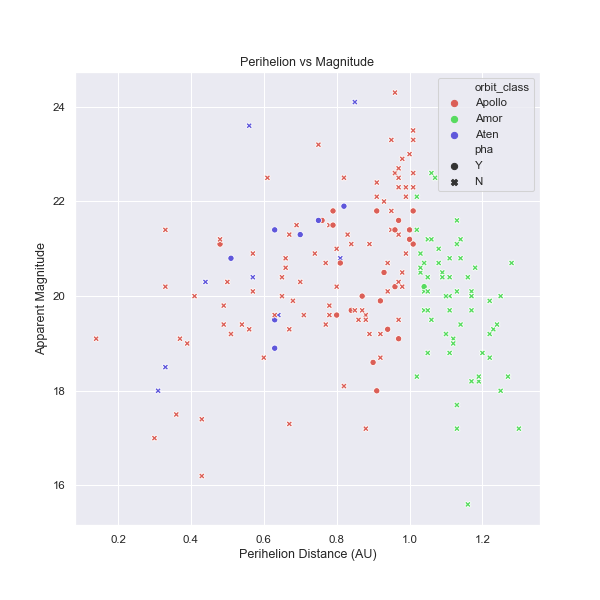
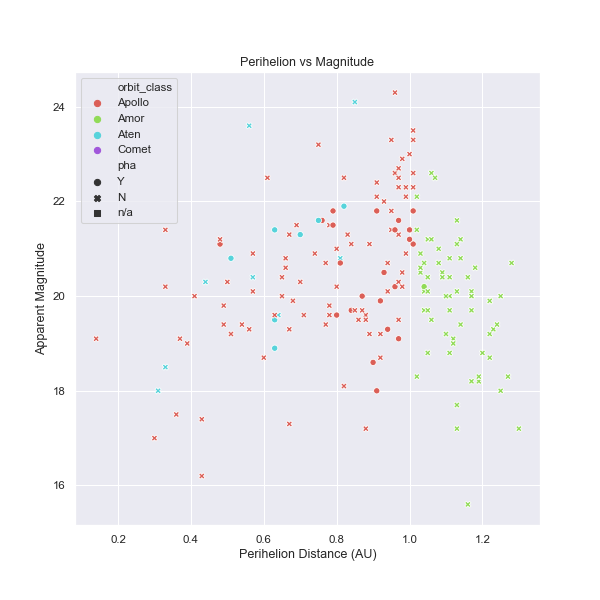
adding python code that generated previously commited images

diff --git a/src/python/visualization_generator.py b/src/python/visualization_generator.py
@@ -1,0 +1,144 @@
+#!/usr/bin/env python
+# coding: utf-8
+
+# In[1]:
+
+
+import pandas as pd
+import matplotlib.pyplot as plt
+import seaborn as sns
+import datetime
+get_ipython().run_line_magic('matplotlib', 'inline')
+
+
+# In[2]:
+
+
+# importing data
+neowise_data = pd.read_json("../../data/json/neowise.json")
+
+for index,row in neowise_data.iterrows():
+    if("Comet"==row["orbit_class"]):
+        continue
+    elif("Comet" in row["orbit_class"]):
+        neowise_data.drop(index, inplace = True)
+neowise_data.head()
+
+
+# In[3]:
+
+
+# Preparing Data for Visualization
+neowise_data['discovery_date'] = pd.to_datetime(neowise_data['discovery_date'])
+
+
+# In[11]:
+
+
+# Making Graph that will be displayed on Application Startup
+plt.figure(figsize = (8,8))
+fig, ax = plt.subplots()
+ax.set_xlim([datetime.date(2010, 1, 1), datetime.date(2015, 12, 31)])
+
+sns.set(style='darkgrid')
+
+plt.title("Date vs Magnitude")
+date_vs_magnitude = sns.scatterplot(x = "discovery_date", y = "h_mag", hue = "orbit_class", style = "pha",
+                                    data = neowise_data)
+date_vs_magnitude.set(xlabel = "Discovery Date", ylabel = "Apparent Magnitude")
+
+#plt.savefig('../../data/default-images/date_vs_magnitude.png', dpi = 100)
+
+
+# In[5]:
+
+
+# Making First Selectable Graph
+plt.figure(figsize = (8,8))
+
+sns.set(style='darkgrid',)
+
+plt.title("Perihelion vs Magnitude")
+date_vs_magnitude = sns.scatterplot(x = "q_au_1", y = "h_mag", hue = "orbit_class", style="pha",data = neowise_data, 
+                                    legend = "brief", palette = "hls")
+date_vs_magnitude.set(xlabel = "Perihelion Distance (AU)", ylabel = "Apparent Magnitude")
+
+plt.savefig('../../data/default-images/perihelion_vs_magnitude.png', dpi = 75)
+
+
+# In[6]:
+
+
+# Making Second Selectable Graph
+plt.figure(figsize = (8,8))
+fig, ax = plt.subplots()
+ax.set_xlim([0,8])
+sns.set(style='darkgrid',)
+plt.title("Period vs Magnitude")
+date_vs_magnitude = sns.scatterplot(x = "period_yr", y = "h_mag", hue = "orbit_class", data = neowise_data, 
+                                    legend = "brief", style = 'pha',palette = "Paired")
+date_vs_magnitude.set(xlabel = "Period (Yrs)", ylabel = "Apparent Magnitude")
+
+plt.savefig('../../data/default-images/period_vs_magnitude.png', dpi = 100)
+
+
+# In[7]:
+
+
+for index,row in neowise_data.iterrows():
+    if("Comet"==row["orbit_class"]):
+        neowise_data.drop(index,inplace=True)
+
+
+# In[8]:
+
+
+# Making Third Selectable Graph
+plt.figure(figsize = (8,8))
+fig, ax = plt.subplots()
+ax.set_ylim([0,1])
+sns.set(style='darkgrid',)
+plt.title("Perihelion vs MOID")
+date_vs_magnitude = sns.scatterplot(x = "q_au_1", y = "moid_au", hue = "orbit_class", data = neowise_data, 
+                                    legend = "brief", style = 'pha',palette = "rocket_r")
+date_vs_magnitude.set(xlabel = "Perihelion Distance (AU)", ylabel = "Minimum orbit intersection distance (AU)")
+
+plt.savefig('../../data/default-images/perihelion_vs_moid.png', dpi = 100)
+
+
+# In[9]:
+
+
+# Making Fourth Selectable Graph
+plt.figure(figsize = (8,8))
+fig, ax = plt.subplots()
+sns.set(style='darkgrid',)
+plt.title("Orbital Inclination vs Perihelion")
+date_vs_magnitude = sns.scatterplot(x = "i_deg", y = "q_au_1", hue = "orbit_class", data = neowise_data, 
+                                    legend = "brief", style = 'pha',palette = "Set2")
+date_vs_magnitude.set(xlabel = "Orbital Inclination (Degrees)", ylabel = "Perihelion Distance (AU)")
+
+plt.savefig('../../data/default-images/inclination_vs_perihelion.png', dpi = 100)
+
+
+# In[10]:
+
+
+# Making Final Selectable Graph
+plt.figure(figsize = (8,8))
+fig, ax = plt.subplots()
+ax.set_ylim([0,10])
+sns.set(style='darkgrid',)
+plt.title("Perihelion vs Apohelion")
+date_vs_magnitude = sns.scatterplot(x = "q_au_1", y = "q_au_2", hue = "orbit_class", data = neowise_data, 
+                                    legend = "brief", style = 'pha',palette = "mako")
+date_vs_magnitude.set(xlabel = "Perihelion Distance (AU)", ylabel = "Apohelion Distance (AU)")
+
+plt.savefig('../../data/default-images/perihelion_vs_apohelion.png', dpi = 100)
+
+
+# In[ ]:
+
+
+
+
